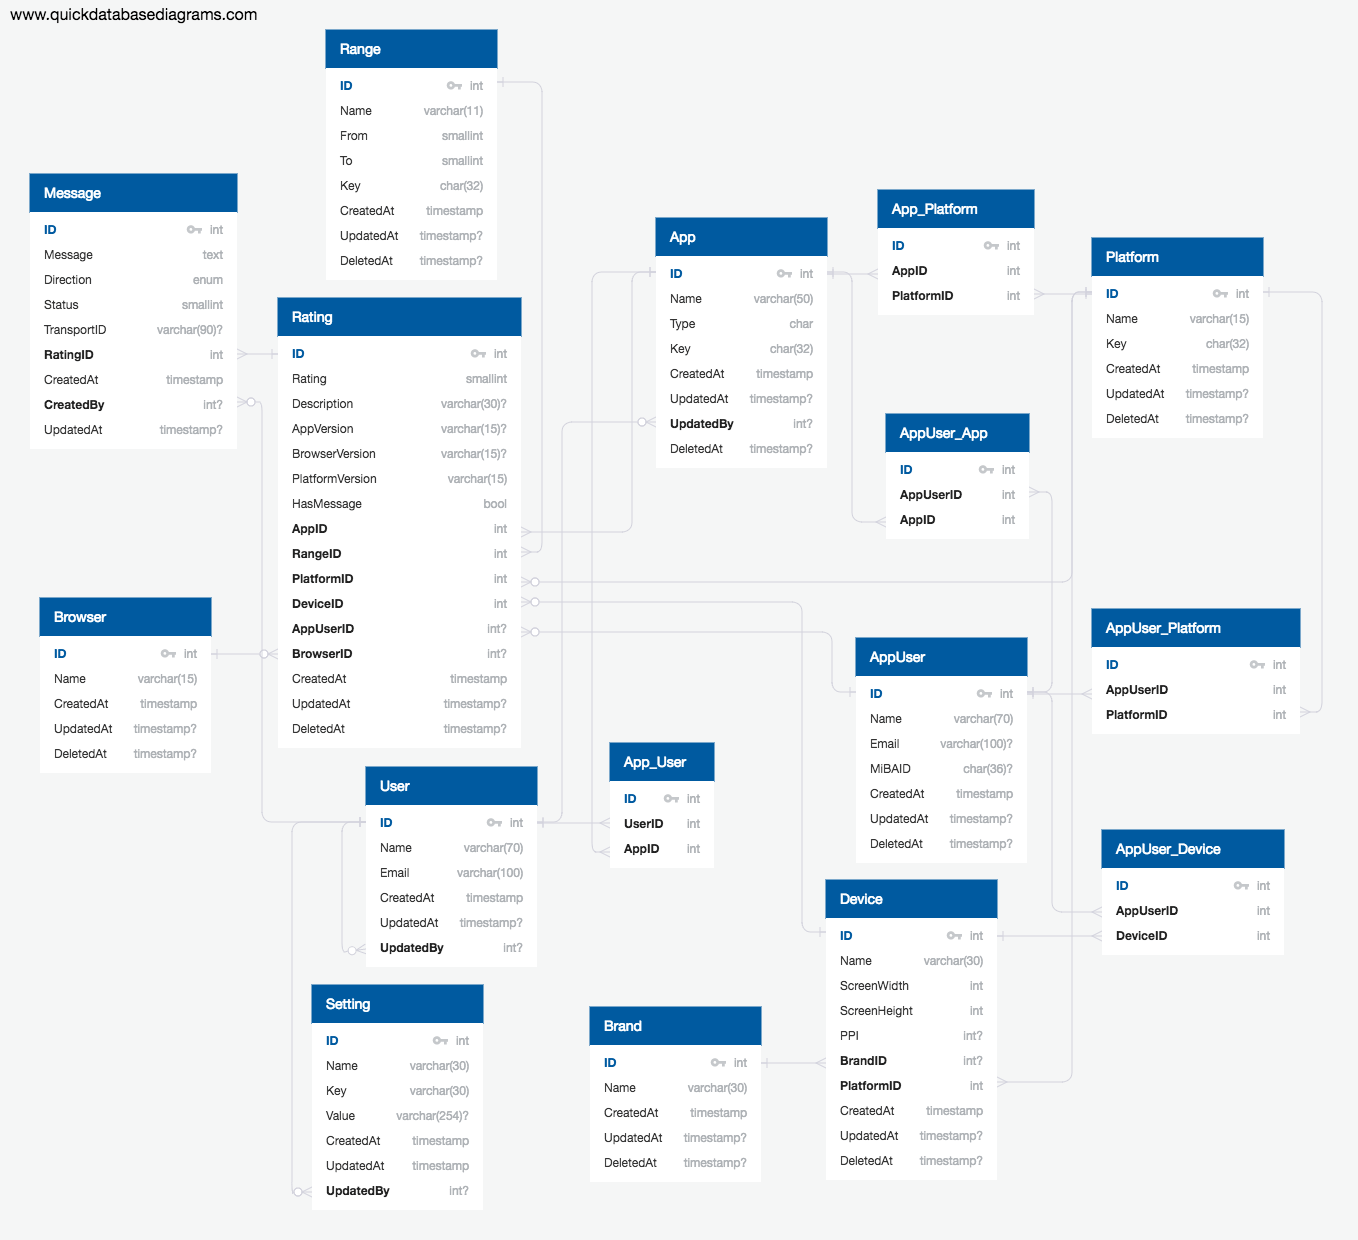
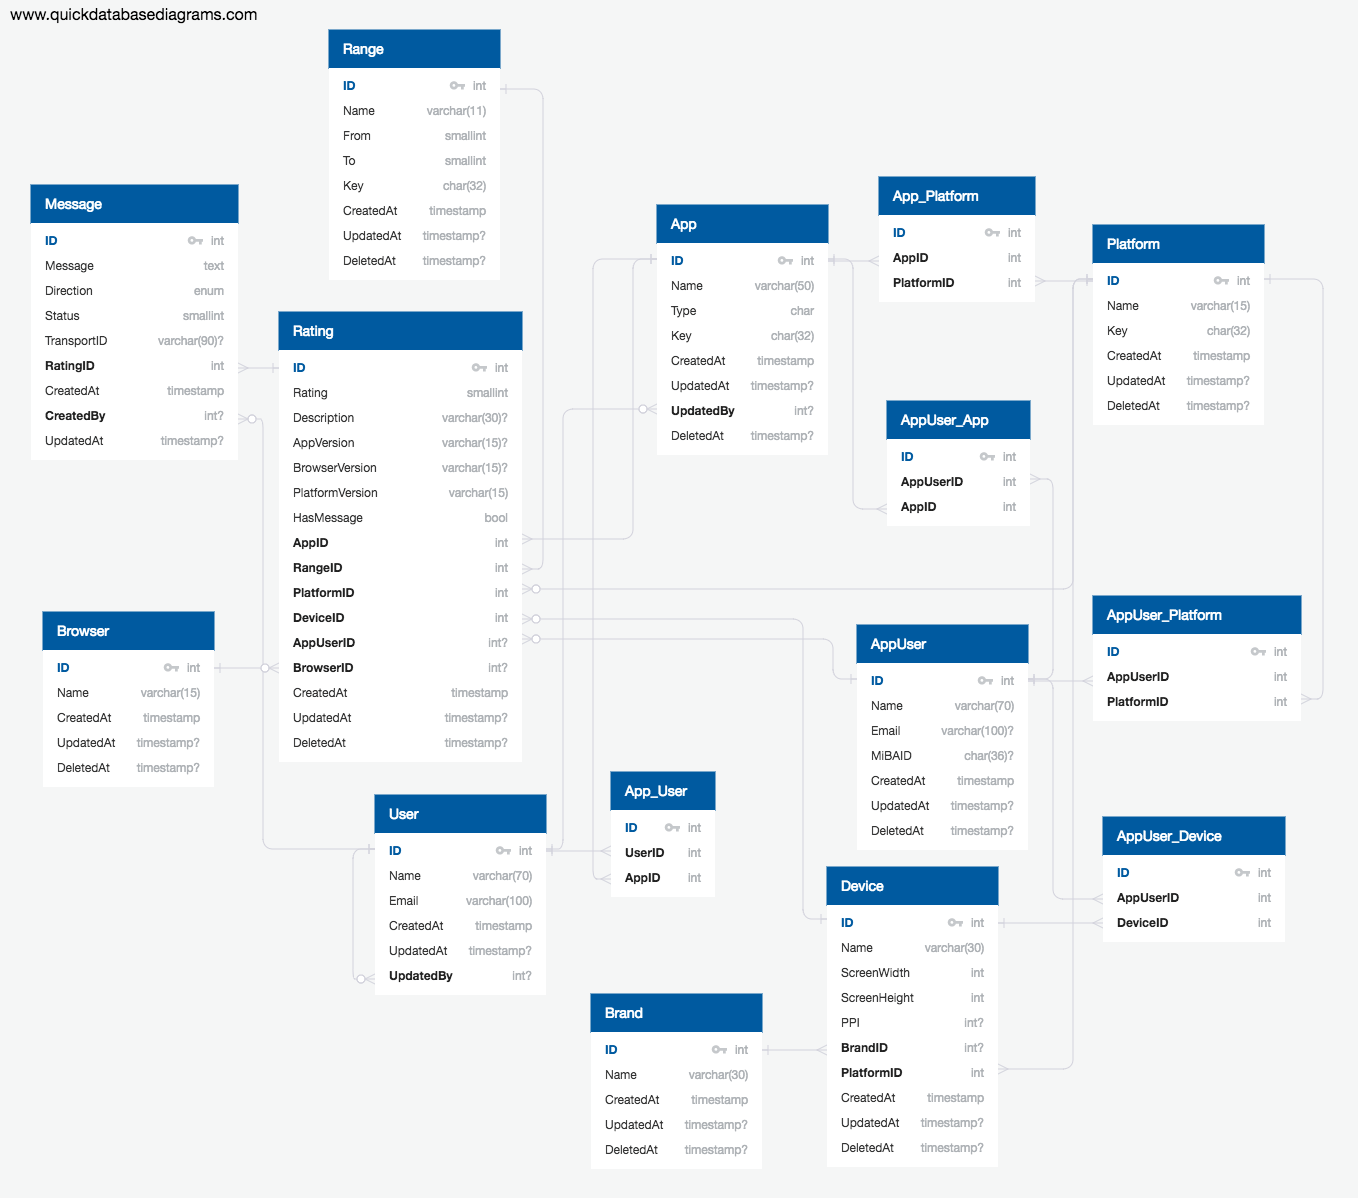
Updated docs

diff --git a/docs/estructura/datos.md b/docs/estructura/datos.md
@@ -2,7 +2,7 @@
 
 ![Schema](https://github.com/gcba/hermes/raw/master/docs/images/schema.png)
 
-Consta de 16 tablas, sin contar las necesarias para roles y permisos (no aparecen en la imagen) dado que éstas son creadas y manejadas automáticamente por un componente de autorización.
+Consta de 15 tablas, sin contar las necesarias para roles y permisos (no aparecen en la imagen) dado que éstas son creadas y manejadas automáticamente por un componente de autorización.
 
 ## Tablas
 
@@ -248,24 +248,6 @@ Los rangos de calificaciones de cada app.
 |created_at      |timestamp             |       |       |       |       |
 |updated_at      |timestamp             |       |X      |       |       |
 |deleted_at      |timestamp             |       |X      |       |       |
-
-### Setting
-
-Los valores de configuración del backend.
-
-#### Relaciones
-
-- **One-to-many** con User, a través de `updated_by`
-
-|Campos          |Tipo                  | FK?   | Null? |Unique?|Index? |
-|----------------|----------------------|:-----:|:-----:|:-----:|:-----:|
-|id              |int (PK)              |       |       |       |       |
-|name            |varchar(30)           |       |       |       |       |
-|key             |varchar(30)           |       |       |X      |       |
-|value           |varchar(254)          |       |X      |       |       |
-|created_at      |timestamp             |       |       |       |       |
-|updated_at      |timestamp             |       |X      |       |       |
-|updated_by      |int                   |X      |X      |       |       |
 
 ## Timestamps
 
